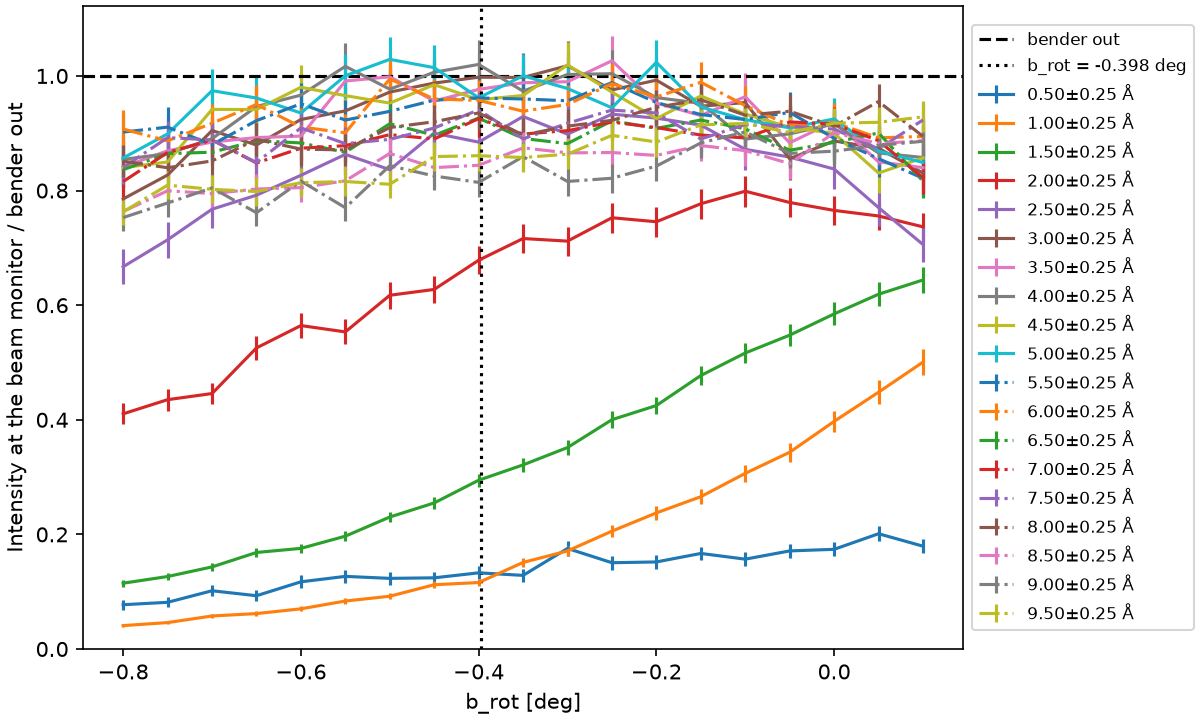
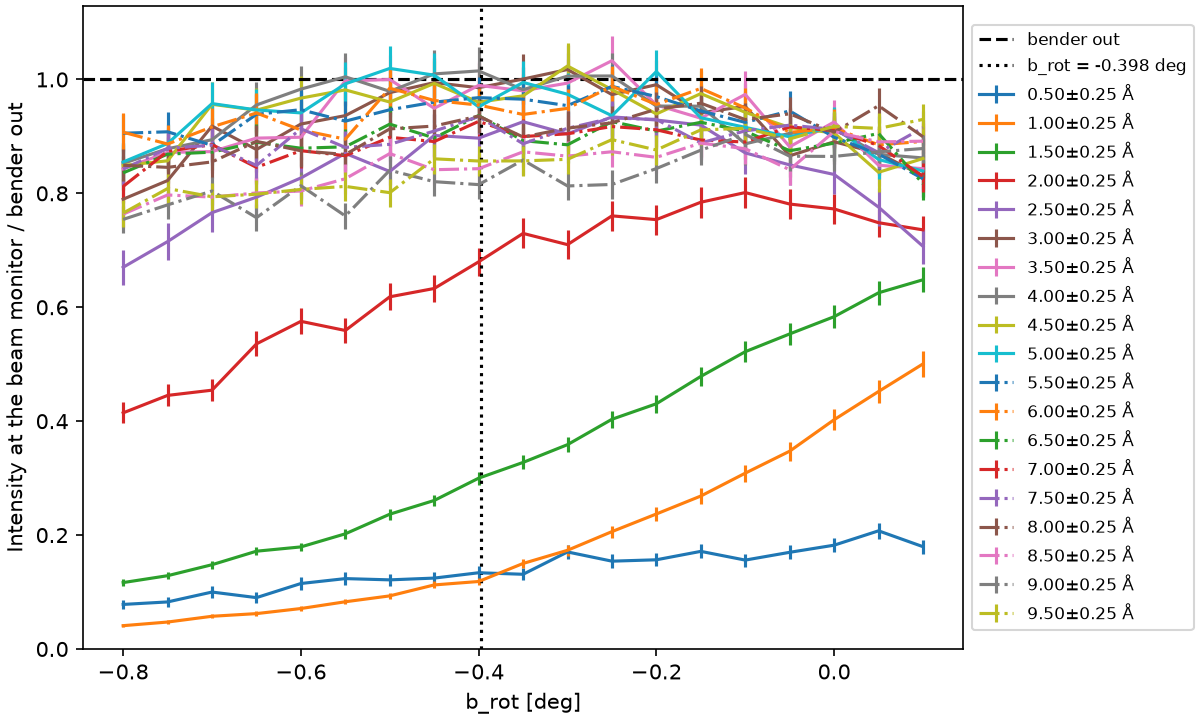
Make the figure of the bender scan again, with the bands on the bins of the beam monitor

diff --git a/docs/instruments/trex/bender-scan.md b/docs/instruments/trex/bender-scan.md
@@ -116,19 +116,19 @@ At −0.4 deg, the point of the scan nearest the nominal rotation:
 
 | Band center | Transmission |
 | ----------- | ------------ |
-| 8.5 to 9.5 Å | 0.81 to 0.86 |
-| 3.0 to 8.0 Å | 0.93 to 1.02 |
-| 2.5 Å | 0.88 |
+| 8.5 to 9.5 Å | 0.82 to 0.86 |
+| 3.0 to 8.0 Å | 0.93 to 1.01 |
+| 2.5 Å | 0.90 |
 | 2.0 Å | 0.68 |
-| 1.5 Å | 0.29 |
+| 1.5 Å | 0.30 |
 | 0.5 and 1.0 Å | 0.13 and 0.12 |
 
 The errors are 0.007 to 0.04, the larger at the longer wavelengths, where fewer neutrons are.
 Above 1 means the bender passes a band slightly better than guide 4a; the bands from 3 to 8 Å
 pass within a few percent of guide 4a, within about two errors. They are flat from about −0.6 to −0.2 deg, so the nominal rotation
-sits in the middle of that range. Above 8 Å the transmission is lower, 0.81 to 0.86 here and
+sits in the middle of that range. Above 8 Å the transmission is lower, 0.82 to 0.86 here and
 0.75 to 0.93 over the scan. The bands of 1.0 and 1.5 Å keep rising up to the end of the scan at
-0.1 deg, so their maximum lies outside it. The shortest band, around 0.5 Å, reaches at most 0.2.
+0.1 deg, so their maximum lies outside it. The shortest band, around 0.5 Å, reaches at most 0.21.
 
 ## Making the figures
 
